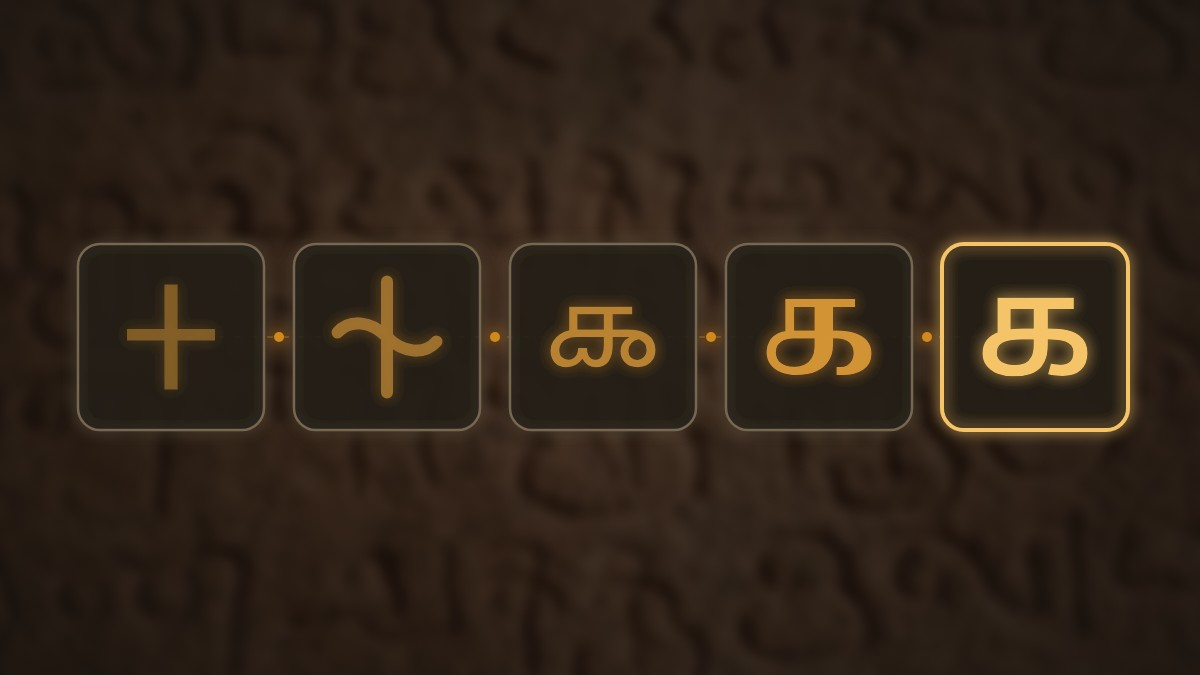
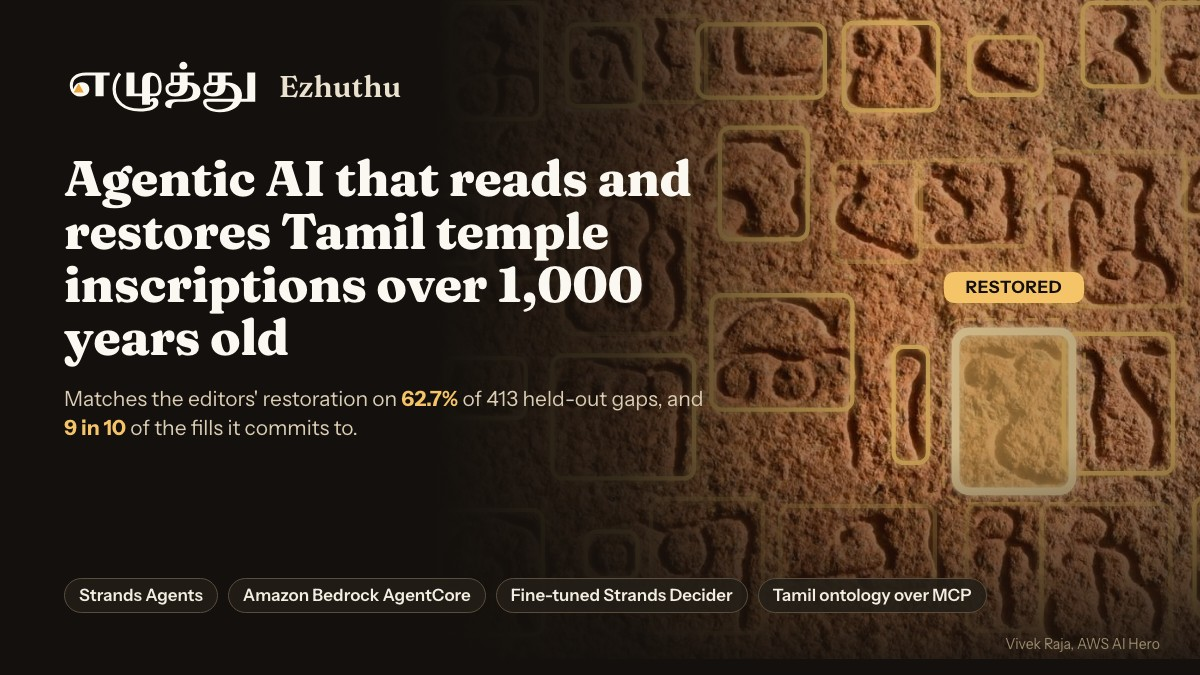
blog: project cover that names the project (title, result, stack) on the Thanjavur stone

diff --git a/blog/figures/html/project-00-cover.html b/blog/figures/html/project-00-cover.html
@@ -50,8 +50,19 @@ body { font-family: var(--sans); color: var(--ink); -webkit-font-smoothing: anti
 .ta { font-family: 'Noto Sans Tamil', var(--sans); }
 
 </style></head><body><div id="fig" class="dark" style="width:1200px;height:675px;"><div style="position:absolute;inset:0;background:#13100D"></div>
-<img src="file:///Users/vivekrajaps/tamil-script/ezhuthu-wt/blog-sweep/app/web/public/hero/thanjavur-1568.jpg" style="position:absolute;left:-40px;top:-40px;width:1280px;height:755px;object-fit:cover;filter:blur(7px) saturate(.9) brightness(.42)">
-<div style="position:absolute;inset:0;background:radial-gradient(75% 85% at 50% 50%,rgba(19,16,13,.15) 0%,rgba(19,16,13,.85) 100%)"></div>
-<svg width="1200" height="675" style="position:absolute;inset:0"><defs><filter id="g4"><feGaussianBlur stdDeviation="7" result="b"/><feMerge><feMergeNode in="b"/><feMergeNode in="SourceGraphic"/></feMerge></filter></defs>
-<line x1="171.0" y1="337.0" x2="1035.0" y2="337.0" stroke="#D2891C" stroke-opacity=".35" stroke-width="2" stroke-dasharray="6 10"/>
-<g filter="url(#g4)"><rect x="78" y="244" width="186" height="186" rx="22" fill="#231E18" fill-opacity=".72" stroke="#76674F" stroke-width="2.5"/><svg x="96" y="262" width="150" height="150" viewBox="0 0 100 100" opacity="0.42"><path d="M45.59 85V52.35H20.69V44.61H45.59V15H54.41V44.61H79.31V52.35H54.41V85H45.59Z" fill="#EAA43A"/></svg><rect x="294" y="244" width="186" height="186" rx="22" fill="#231E18" fill-opacity=".72" stroke="#76674F" stroke-width="2.5"/><svg x="312" y="262" width="150" height="150" viewBox="0 0 100 100" opacity="0.56"><path d="M50 13V87M17 47C25 38 39 39 50 50C61 61 75 62 83 53" fill="none" stroke="#EAA43A" stroke-width="8" stroke-linecap="round" stroke-linejoin="round"/></svg><rect x="510" y="244" width="186" height="186" rx="22" fill="#231E18" fill-opacity=".72" stroke="#76674F" stroke-width="2.5"/><svg x="528" y="262" width="150" height="150" viewBox="0 0 100 100" opacity="0.71"><path d="M85 58.36Q85 62.54 83.22 65.15Q81.45 67.76 78.7 68.95Q75.95 70.13 72.95 70.13Q67.66 70.13 64.63 67.03Q61.6 63.93 61.6 59.47Q61.6 56.76 63.06 54.14Q64.52 51.53 67.59 50.14Q66.75 50.07 65.78 50.07H56.51V55.57Q56.51 62.47 53.73 66.3Q50.94 70.13 45.37 70.13Q39.1 70.13 36.24 64.49Q34.78 66.93 32.03 68.53Q29.28 70.13 25.73 70.13Q20.43 70.13 17.72 66.96Q15 63.79 15 59.26Q15 55.64 16.71 52.82Q18.41 50 21.23 48.12Q24.05 46.24 27.47 45.54V29.87H69.47V34.89H56.51V45.05H66.61Q72.95 45.05 77.02 46.87Q81.1 48.68 83.05 51.67Q85 54.67 85 58.36ZM32.97 34.89V45.05H50.52V34.89H32.97ZM20.92 58.78Q20.92 61.98 22.73 63.55Q24.54 65.11 26.91 65.11Q29.07 65.11 30.5 64.03Q31.93 62.96 32.66 61.25Q33.39 59.54 33.39 57.8V57.38H39.38V57.8Q39.38 59.54 39.9 61.21Q40.42 62.89 41.64 64Q42.86 65.11 44.88 65.11Q47.95 65.11 49.23 62.43Q50.52 59.75 50.52 55.43V50.07H32.69Q28.51 50.07 25.9 51.29Q23.29 52.51 22.1 54.46Q20.92 56.41 20.92 58.78ZM66.96 59.26Q66.96 61.98 68.67 63.62Q70.37 65.25 72.74 65.25Q75.04 65.25 77.02 63.51Q79.01 61.77 79.01 58.57Q79.01 53.62 73.93 51.46Q70.51 52.16 68.74 54.32Q66.96 56.48 66.96 59.26Z" fill="#EAA43A"/></svg><rect x="726" y="244" width="186" height="186" rx="22" fill="#231E18" fill-opacity=".72" stroke="#76674F" stroke-width="2.5"/><svg x="744" y="262" width="150" height="150" viewBox="0 0 100 100" opacity="0.85"><path d="M34.89 75.34Q28.97 75.34 24.48 73.46Q19.99 71.57 17.5 68.12Q15 64.66 15 59.96Q15 55.85 16.99 52.62Q18.97 49.39 22.76 47.55Q26.55 45.69 31.85 45.69H47.01V29.92H33.41V48.53H27.54V24.66H74.07V29.92H59.34V45.69H61.99Q69.17 45.69 74.31 47.46Q79.44 49.23 82.22 52.66Q85 56.1 85 61.18Q85 64.95 83.44 67.65Q81.86 70.35 79.24 72.03Q76.61 73.69 73.37 74.48Q70.12 75.26 66.67 75.26H61.69V70.06H64.16Q66.73 70.06 68.75 68.92Q70.77 67.79 71.91 65.71Q73.05 63.63 73.05 60.91Q73.05 56.04 70.05 53.49Q67.05 50.94 61.98 50.94H59.34V55.48Q59.34 61.33 56.57 65.82Q53.8 70.33 48.39 72.83Q42.97 75.34 34.89 75.34ZM33.61 69.9Q37.47 69.9 40.48 68.36Q43.49 66.81 45.24 63.8Q47.01 60.79 47.01 56.42V50.94H32.85Q28.99 50.94 26.4 52.12Q23.8 53.3 22.52 55.37Q21.24 57.44 21.24 60.09Q21.24 64.53 24.42 67.22Q27.61 69.9 33.61 69.9Z" fill="#EAA43A"/></svg><rect x="942" y="244" width="186" height="186" rx="22" fill="#231E18" fill-opacity=".72" stroke="#F5C468" stroke-width="4"/><svg x="960" y="262" width="150" height="150" viewBox="0 0 100 100" opacity="1.00"><path d="M35.69 76.23Q29.74 76.23 25.07 74.44Q20.39 72.64 17.7 69.16Q15 65.67 15 60.75Q15 55.73 17.74 52.06Q20.48 48.38 26.46 46.35Q32.42 44.33 42.19 44.33H59.68Q64.8 44.33 68.42 44.79Q72.04 45.26 74.71 46.25Q77.38 47.25 79.59 48.94Q82.09 50.81 83.55 53.87Q85 56.92 85 60.85Q85 68 80.63 71.99Q76.28 75.98 68.25 75.98Q66.1 75.98 63.52 75.71Q60.93 75.45 58.73 74.8L60.62 67.64Q61.98 68.01 63.63 68.24Q65.27 68.48 66.94 68.48Q71.15 68.48 73.34 66.51Q75.54 64.53 75.54 60.4Q75.54 57.48 74.19 55.72Q72.85 53.97 70.62 53.1Q68.38 52.23 65.58 51.93Q62.78 51.63 59.89 51.63H41.24Q36.97 51.63 33.8 52.12Q30.64 52.61 28.41 53.82Q26.47 54.94 25.53 56.55Q24.6 58.16 24.6 60.6Q24.6 64.62 27.93 66.64Q31.27 68.67 36.48 68.67Q40.41 68.67 43.21 67.45Q46.01 66.23 47.56 63.22Q49.1 60.21 49.1 54.78V31.37H33.79V47.25L25.01 48.73V23.77H75.87V31.37H58.58V53.89Q58.58 60.15 57.46 63.73Q56.35 67.3 54.31 69.75Q51.28 73.32 46.55 74.78Q41.84 76.23 35.69 76.23Z" fill="#F5C468"/></svg><circle cx="279" cy="337" r="5" fill="#D2891C"/><circle cx="495" cy="337" r="5" fill="#D2891C"/><circle cx="711" cy="337" r="5" fill="#D2891C"/><circle cx="927" cy="337" r="5" fill="#D2891C"/></g></svg></div></body></html>
+<div style="position:absolute;left:395px;top:-10px;width:1348px;height:669px">
+ <img src="file:///Users/vivekrajaps/tamil-script/ezhuthu-wt/blog-sweep/app/web/public/hero/thanjavur-1568.jpg" style="width:100%;height:100%;display:block;filter:saturate(1.05) contrast(1.05) brightness(.92)">
+ <svg viewBox="0 0 1568 778" style="position:absolute;inset:0;width:100%;height:100%"><defs><filter id="g4"><feGaussianBlur stdDeviation="5" result="b"/><feMerge><feMergeNode in="b"/><feMergeNode in="SourceGraphic"/></feMerge></filter></defs>
+ <g filter="url(#g4)"><rect x="65" y="15" width="105" height="135" rx="12" fill="none" stroke="#F5C468" stroke-opacity="0.9" stroke-width="5"/><rect x="200" y="40" width="85" height="95" rx="12" fill="none" stroke="#F5C468" stroke-opacity="0.9" stroke-width="5"/><rect x="280" y="30" width="82" height="100" rx="12" fill="none" stroke="#F5C468" stroke-opacity="0.4" stroke-width="5"/><rect x="352" y="40" width="148" height="85" rx="12" fill="none" stroke="#F5C468" stroke-opacity="0.9" stroke-width="5"/><rect x="522" y="38" width="110" height="102" rx="12" fill="none" stroke="#F5C468" stroke-opacity="0.9" stroke-width="5"/><rect x="668" y="55" width="84" height="67" rx="12" fill="none" stroke="#F5C468" stroke-opacity="0.9" stroke-width="5"/><rect x="800" y="15" width="82" height="97" rx="12" fill="none" stroke="#F5C468" stroke-opacity="0.9" stroke-width="5"/><rect x="888" y="15" width="82" height="109" rx="12" fill="none" stroke="#F5C468" stroke-opacity="0.9" stroke-width="5"/><rect x="1005" y="12" width="95" height="90" rx="12" fill="none" stroke="#F5C468" stroke-opacity="0.4" stroke-width="5"/><rect x="1110" y="12" width="112" height="66" rx="12" fill="none" stroke="#F5C468" stroke-opacity="0.4" stroke-width="5"/><rect x="1236" y="5" width="159" height="130" rx="12" fill="none" stroke="#F5C468" stroke-opacity="0.9" stroke-width="5"/><rect x="1405" y="4" width="125" height="96" rx="12" fill="none" stroke="#F5C468" stroke-opacity="0.9" stroke-width="5"/><rect x="12" y="240" width="90" height="78" rx="12" fill="none" stroke="#F5C468" stroke-opacity="0.9" stroke-width="5"/><rect x="112" y="220" width="100" height="115" rx="12" fill="none" stroke="#F5C468" stroke-opacity="0.4" stroke-width="5"/><rect x="195" y="222" width="147" height="178" rx="12" fill="none" stroke="#F5C468" stroke-opacity="0.4" stroke-width="5"/><rect x="378" y="160" width="102" height="130" rx="12" fill="none" stroke="#F5C468" stroke-opacity="0.9" stroke-width="5"/><rect x="510" y="200" width="102" height="116" rx="12" fill="none" stroke="#F5C468" stroke-opacity="0.4" stroke-width="5"/><rect x="606" y="198" width="134" height="100" rx="12" fill="none" stroke="#F5C468" stroke-opacity="0.4" stroke-width="5"/><rect x="762" y="188" width="158" height="180" rx="12" fill="none" stroke="#F5C468" stroke-opacity="0.4" stroke-width="5"/><rect x="918" y="195" width="122" height="67" rx="12" fill="none" stroke="#F5C468" stroke-opacity="0.4" stroke-width="5"/><rect x="1060" y="188" width="190" height="94" rx="12" fill="none" stroke="#F5C468" stroke-opacity="0.9" stroke-width="5"/><rect x="1265" y="185" width="75" height="65" rx="12" fill="none" stroke="#F5C468" stroke-opacity="0.9" stroke-width="5"/><rect x="1342" y="185" width="140" height="147" rx="12" fill="none" stroke="#F5C468" stroke-opacity="0.9" stroke-width="5"/><rect x="1505" y="190" width="55" height="146" rx="12" fill="none" stroke="#F5C468" stroke-opacity="0.9" stroke-width="5"/><rect x="58" y="428" width="94" height="70" rx="12" fill="none" stroke="#F5C468" stroke-opacity="0.9" stroke-width="5"/><rect x="183" y="425" width="165" height="143" rx="12" fill="none" stroke="#F5C468" stroke-opacity="0.9" stroke-width="5"/><rect x="368" y="355" width="164" height="133" rx="12" fill="none" stroke="#F5C468" stroke-opacity="0.9" stroke-width="5"/><rect x="580" y="415" width="40" height="135" rx="12" fill="none" stroke="#F5C468" stroke-opacity="0.9" stroke-width="5"/><rect x="778" y="400" width="127" height="162" rx="12" fill="none" stroke="#F5C468" stroke-opacity="0.9" stroke-width="5"/><rect x="965" y="400" width="95" height="165" rx="12" fill="none" stroke="#F5C468" stroke-opacity="0.4" stroke-width="5"/><rect x="1060" y="385" width="108" height="183" rx="12" fill="none" stroke="#F5C468" stroke-opacity="0.9" stroke-width="5"/><rect x="1175" y="380" width="150" height="150" rx="12" fill="none" stroke="#F5C468" stroke-opacity="0.4" stroke-width="5"/><rect x="1325" y="375" width="115" height="95" rx="12" fill="none" stroke="#F5C468" stroke-opacity="0.9" stroke-width="5"/><rect x="1442" y="360" width="78" height="152" rx="12" fill="none" stroke="#F5C468" stroke-opacity="0.4" stroke-width="5"/><rect x="52" y="605" width="120" height="145" rx="12" fill="none" stroke="#F5C468" stroke-opacity="0.9" stroke-width="5"/><rect x="222" y="630" width="60" height="54" rx="12" fill="none" stroke="#F5C468" stroke-opacity="0.9" stroke-width="5"/><rect x="298" y="592" width="130" height="156" rx="12" fill="none" stroke="#F5C468" stroke-opacity="0.4" stroke-width="5"/><rect x="448" y="600" width="180" height="100" rx="12" fill="none" stroke="#F5C468" stroke-opacity="0.4" stroke-width="5"/><rect x="665" y="598" width="87" height="147" rx="12" fill="none" stroke="#F5C468" stroke-opacity="0.4" stroke-width="5"/><rect x="752" y="598" width="150" height="167" rx="12" fill="none" stroke="#F5C468" stroke-opacity="0.4" stroke-width="5"/><rect x="930" y="590" width="132" height="138" rx="12" fill="none" stroke="#F5C468" stroke-opacity="0.9" stroke-width="5"/><rect x="1080" y="595" width="175" height="85" rx="12" fill="none" stroke="#F5C468" stroke-opacity="0.9" stroke-width="5"/><rect x="1262" y="560" width="34" height="144" rx="12" fill="none" stroke="#F5C468" stroke-opacity="0.9" stroke-width="5"/><rect x="1305" y="575" width="143" height="87" rx="12" fill="none" stroke="#F5C468" stroke-opacity="0.9" stroke-width="5"/><rect x="1448" y="565" width="90" height="131" rx="12" fill="none" stroke="#F5C468" stroke-opacity="0.4" stroke-width="5"/><rect x="652" y="397" width="136" height="186" rx="16" fill="#F5C468" fill-opacity=".34" stroke="#FBDFA6" stroke-width="9"/><rect x="638" y="383" width="164" height="214" rx="24" fill="none" stroke="#F5C468" stroke-opacity=".55" stroke-width="3" stroke-dasharray="14 10"/></g></svg></div>
+<div style="position:absolute;inset:0;background:linear-gradient(90deg,#13100D 0%,#13100D 36%,rgba(19,16,13,.82) 52%,rgba(19,16,13,.15) 74%,rgba(19,16,13,.35) 100%)"></div>
+<div style="position:absolute;inset:0;background:linear-gradient(0deg,rgba(19,16,13,.92) 0%,rgba(19,16,13,0) 34%)"></div>
+<div style="position:absolute;left:944px;top:272px;width:140px;text-align:center;padding:7px 0;border-radius:10px;background:#F5C468;
+ font:700 17px/1 var(--sans);color:#13100D;letter-spacing:.04em;box-shadow:0 0 24px rgba(245,196,104,.6)">RESTORED</div>
+<div style="position:absolute;left:64px;top:56px;width:640px">
+ <div style="display:flex;align-items:center;gap:18px"><img src="file:///Users/vivekrajaps/tamil-script/ezhuthu-wt/blog-sweep/design/brand/logo/wordmark-ta-reversed.svg" style="height:62px">
+  <span style="font:600 30px/1 var(--serif);color:#EAE1CE">Ezhuthu</span></div>
+ <div style="font:800 50px/1.06 var(--serif);color:#FBF8F1;margin-top:34px;letter-spacing:-.01em">Agentic AI that reads and restores Tamil temple inscriptions over 1,000 years old</div>
+ <div style="font:500 21px/1.4 var(--sans);color:#DACDB4;margin-top:20px">Matches the editors' restoration on <b style="color:#F5C468">62.7%</b> of 413 held-out gaps, and <b style="color:#F5C468">9 in 10</b> of the fills it commits to.</div>
+</div>
+<div style="position:absolute;left:64px;bottom:52px;width:1080px"><span style="display:inline-block;margin:0 10px 10px 0;padding:8px 14px;border-radius:999px;border:1.5px solid #5A4D3E;background:rgba(35,30,24,.85);font:600 17px/1 var(--sans);color:#F4EEE2">Strands Agents</span><span style="display:inline-block;margin:0 10px 10px 0;padding:8px 14px;border-radius:999px;border:1.5px solid #5A4D3E;background:rgba(35,30,24,.85);font:600 17px/1 var(--sans);color:#F4EEE2">Amazon Bedrock AgentCore</span><span style="display:inline-block;margin:0 10px 10px 0;padding:8px 14px;border-radius:999px;border:1.5px solid #5A4D3E;background:rgba(35,30,24,.85);font:600 17px/1 var(--sans);color:#F4EEE2">Fine-tuned Strands Decider</span><span style="display:inline-block;margin:0 10px 10px 0;padding:8px 14px;border-radius:999px;border:1.5px solid #5A4D3E;background:rgba(35,30,24,.85);font:600 17px/1 var(--sans);color:#F4EEE2">Tamil ontology over MCP</span></div>
+<div style="position:absolute;right:40px;bottom:24px;font:500 14px/1 var(--sans);color:#9A896C">Vivek Raja, AWS AI Hero</div></div></body></html>

diff --git a/blog/figures/gen.py b/blog/figures/gen.py
@@ -935,28 +935,46 @@ def covers() -> None:
 <circle cx="1080" cy="90" r="20" fill="#D2891C"/><circle cx="1080" cy="90" r="38" fill="none" stroke="#D2891C" stroke-width="3" opacity=".5"/></svg>"""
     page("p3-00-cover", c3, w=1200, h=675)
 
-    # Project cover: the letter ka at five stages (design/glyphs/hero-evolution.json), lamp-lit on the dark,
-    # blurred Thanjavur stone (photo: Richard Mortel, CC BY 2.0; credited in the article). No text.
-    evo = json.loads((ROOT / "design/glyphs/hero-evolution.json").read_text())
-    st = evo["stages"]  # brahmi, vatteluttu, pallava, chola, modern: oldest to newest
-    gl, step, size, y = 96, 216, 150, 262
-    marks = ""
-    for i, s in enumerate(st):
-        x = gl + i * step
-        op = .42 + .145 * i
-        col = C["lamp300"] if i == len(st) - 1 else C["lamp400"]
-        shape = (f'<path d="{s["d"]}" fill="none" stroke="{col}" stroke-width="{evo["stroke"]}" stroke-linecap="round" stroke-linejoin="round"/>'
-                 if s["kind"] == "stroke" else f'<path d="{s["d"]}" fill="{col}"/>')
-        marks += (f'<rect x="{x - 18}" y="{y - 18}" width="{size + 36}" height="{size + 36}" rx="22" fill="{C["g850"]}" fill-opacity=".72" '
-                  f'stroke="{C["lamp300"] if i == len(st) - 1 else "#76674F"}" stroke-width="{4 if i == len(st) - 1 else 2.5}"/>'
-                  f'<svg x="{x}" y="{y}" width="{size}" height="{size}" viewBox="{evo["viewBox"]}" opacity="{op:.2f}">{shape}</svg>')
-    dots = "".join(f'<circle cx="{gl + i * step + size + 18 + (step - size - 36) / 2:.0f}" cy="{y + size / 2:.0f}" r="5" fill="{C["lamp500"]}"/>' for i in range(len(st) - 1))
-    c4 = f"""<div style="position:absolute;inset:0;background:#13100D"></div>
-<img src="{photo}" style="position:absolute;left:-40px;top:-40px;width:1280px;height:755px;object-fit:cover;filter:blur(7px) saturate(.9) brightness(.42)">
-<div style="position:absolute;inset:0;background:radial-gradient(75% 85% at 50% 50%,rgba(19,16,13,.15) 0%,rgba(19,16,13,.85) 100%)"></div>
-<svg width="1200" height="675" style="position:absolute;inset:0"><defs><filter id="g4"><feGaussianBlur stdDeviation="7" result="b"/><feMerge><feMergeNode in="b"/><feMergeNode in="SourceGraphic"/></feMerge></filter></defs>
-<line x1="{gl + size / 2}" y1="{y + size / 2}" x2="{gl + 4 * step + size / 2}" y2="{y + size / 2}" stroke="{C["lamp500"]}" stroke-opacity=".35" stroke-width="2" stroke-dasharray="6 10"/>
-<g filter="url(#g4)">{marks}{dots}</g></svg>"""
+    # Project cover: highlights the project. The real Thanjavur stone (photo: Richard Mortel, CC BY 2.0; credited in
+    # the article) with lamp-lit letter boxes and one restored gap, the Tamil and English wordmarks, the headline,
+    # the held-out result (A1, A7) and what it is built with.
+    sc, ox, oy = 0.86, 395, -10
+    pw, ph = W * sc, Hh * sc
+    pr = []
+    rnd2 = random.Random(11)
+    hot = (2, 4)  # row 2, box 4: the restored gap, on the lit part of the stone
+    for ri, row in enumerate(boxes["rows"]):
+        for bi, (x1, y1, x2, y2) in enumerate(row):
+            if (ri, bi) == hot:
+                continue
+            op = .9 if rnd2.random() < .6 else .4
+            pr.append(f'<rect x="{x1}" y="{y1}" width="{x2-x1}" height="{y2-y1}" rx="12" fill="none" stroke="{C["lamp300"]}" stroke-opacity="{op}" stroke-width="5"/>')
+    hx1, hy1, hx2, hy2 = boxes["rows"][hot[0]][hot[1]]
+    pr.append(f'<rect x="{hx1-8}" y="{hy1-8}" width="{hx2-hx1+16}" height="{hy2-hy1+16}" rx="16" fill="{C["lamp300"]}" fill-opacity=".34" '
+              f'stroke="{C["lamp200"]}" stroke-width="9"/>'
+              f'<rect x="{hx1-22}" y="{hy1-22}" width="{hx2-hx1+44}" height="{hy2-hy1+44}" rx="24" fill="none" '
+              f'stroke="{C["lamp300"]}" stroke-opacity=".55" stroke-width="3" stroke-dasharray="14 10"/>')
+    tagx, tagy = ox + (hx1 + hx2) / 2 * sc, oy + hy1 * sc - 66
+    chips = "".join(f'<span style="display:inline-block;margin:0 10px 10px 0;padding:8px 14px;border-radius:999px;border:1.5px solid #5A4D3E;'
+                    f'background:rgba(35,30,24,.85);font:600 17px/1 var(--sans);color:{C["stone100"]}">{t}</span>'
+                    for t in ("Strands Agents", "Amazon Bedrock AgentCore", "Fine-tuned Strands Decider", "Tamil ontology over MCP"))
+    c4 = f"""<div style="position:absolute;inset:0;background:{C["g950"]}"></div>
+<div style="position:absolute;left:{ox}px;top:{oy}px;width:{pw:.0f}px;height:{ph:.0f}px">
+ <img src="{photo}" style="width:100%;height:100%;display:block;filter:saturate(1.05) contrast(1.05) brightness(.92)">
+ <svg viewBox="0 0 {W} {Hh}" style="position:absolute;inset:0;width:100%;height:100%"><defs><filter id="g4"><feGaussianBlur stdDeviation="5" result="b"/><feMerge><feMergeNode in="b"/><feMergeNode in="SourceGraphic"/></feMerge></filter></defs>
+ <g filter="url(#g4)">{''.join(pr)}</g></svg></div>
+<div style="position:absolute;inset:0;background:linear-gradient(90deg,{C["g950"]} 0%,{C["g950"]} 36%,rgba(19,16,13,.82) 52%,rgba(19,16,13,.15) 74%,rgba(19,16,13,.35) 100%)"></div>
+<div style="position:absolute;inset:0;background:linear-gradient(0deg,rgba(19,16,13,.92) 0%,rgba(19,16,13,0) 34%)"></div>
+<div style="position:absolute;left:{tagx-70:.0f}px;top:{tagy:.0f}px;width:140px;text-align:center;padding:7px 0;border-radius:10px;background:{C["lamp300"]};
+ font:700 17px/1 var(--sans);color:{C["g950"]};letter-spacing:.04em;box-shadow:0 0 24px rgba(245,196,104,.6)">RESTORED</div>
+<div style="position:absolute;left:64px;top:56px;width:640px">
+ <div style="display:flex;align-items:center;gap:18px"><img src="{LOGO}/wordmark-ta-reversed.svg" style="height:62px">
+  <span style="font:600 30px/1 var(--serif);color:{C["stone200"]}">Ezhuthu</span></div>
+ <div style="font:800 50px/1.06 var(--serif);color:{C["stone50"]};margin-top:34px;letter-spacing:-.01em">Agentic AI that reads and restores Tamil temple inscriptions over 1,000 years old</div>
+ <div style="font:500 21px/1.4 var(--sans);color:{C["stone300"]};margin-top:20px">Matches the editors' restoration on <b style="color:{C["lamp300"]}">62.7%</b> of 413 held-out gaps, and <b style="color:{C["lamp300"]}">9 in 10</b> of the fills it commits to.</div>
+</div>
+<div style="position:absolute;left:64px;bottom:52px;width:1080px">{chips}</div>
+<div style="position:absolute;right:40px;bottom:24px;font:500 14px/1 var(--sans);color:{C["stone500"]}">Vivek Raja, AWS AI Hero</div>"""
     page("project-00-cover", c4, w=1200, h=675, theme="dark")
 
 

diff --git a/blog/ezhuthu-project.md b/blog/ezhuthu-project.md
@@ -3,7 +3,7 @@ title: "Ezhuthu: An Apprentice for Tamil Temple Inscriptions, Built with Strands
 description: "Identify letters, restore worn-away text and learn to read Tamil inscriptions over 1,000 years old. Built with Strands Agents on Amazon Bedrock AgentCore: a Reader names each carved letter, a Restorer fills gaps from parallel inscriptions with calibrated confidence, the agents look up a custom Tamil epigraphy ontology, a fine-tuned Strands decision model is public on Hugging Face, and a Tutor teaches in Tamil. Matches the editors' restoration on 62.7% of 413 held-out gaps; 9 in 10 when it commits."
 tags: ["strands-agents", "amazon-bedrock-agentcore", "generative-ai", "education", "social-good"]
 cover: "img/project-00-cover.jpg"
-cover_alt: "The Tamil letter ka at five stages, from Tamil-Brahmi through Vatteluttu, Pallava Grantha and Chola Tamil to modern Tamil, lamp-lit in a row of tiles over a dark, blurred temple inscription"
+cover_alt: "Ezhuthu cover: the Tamil and English wordmarks and the line Agentic AI that reads and restores Tamil temple inscriptions over 1,000 years old, beside the inscribed Thanjavur temple wall with lamp-lit outlines around the carved letters and one gap highlighted as restored; it matches the editors' restoration on 62.7% of 413 held-out gaps and 9 in 10 of its committed fills; built with Strands Agents, Amazon Bedrock AgentCore, a fine-tuned Strands Decider and a Tamil ontology over MCP"
 repo: "https://github.com/Vivek0712/ezhuthu"
 demo: "https://d3jz2k92ne5puo.cloudfront.net"
 notebook: "https://github.com/Vivek0712/ezhuthu/blob/main/notebooks/ezhuthu_end_to_end.ipynb"
@@ -116,7 +116,7 @@ Thanks to the DHARMA project and the editors of every edition used here, whose r
 
 Inscription texts: the DHARMA project (ERC grant 809994) and the named editors of each edition, CC BY-SA 4.0. The derived benchmark is shared under CC BY-SA 4.0.
 
-Cover background photograph: "Brihadishwara Temple, Dedicated to Shiva, built by Rajaraja I, completed in 1010, Thanjavur (38)" by Richard Mortel, CC BY 2.0 (https://creativecommons.org/licenses/by/2.0/), via Wikimedia Commons (https://commons.wikimedia.org/wiki/File:1010_CE_Brihadishwara_Shiva_Temple,_inscription,_built_by_Rajaraja_I,_Thanjavur_Tamil_Nadu_India.jpg); cropped, blurred and darkened, with the letter ka at five stages drawn over it.
+Cover background photograph: "Brihadishwara Temple, Dedicated to Shiva, built by Rajaraja I, completed in 1010, Thanjavur (38)" by Richard Mortel, CC BY 2.0 (https://creativecommons.org/licenses/by/2.0/), via Wikimedia Commons (https://commons.wikimedia.org/wiki/File:1010_CE_Brihadishwara_Shiva_Temple,_inscription,_built_by_Rajaraja_I,_Thanjavur_Tamil_Nadu_India.jpg); cropped and darkened at the left, with letter outlines and the project title drawn over it.
 
 Fonts: Noto Serif Tamil, Noto Sans Tamil, Noto Sans Brahmi, Noto Sans Grantha, Fraunces and Instrument Sans, SIL OFL 1.1.
 

diff --git a/blog/publish/project-body.md b/blog/publish/project-body.md
@@ -1,5 +1,5 @@
 < COVER IMAGE: upload blog/img/project-00-cover.jpg in the cover field (1200x675, no text) >
-Alt text: The Tamil letter ka at five stages, from Tamil-Brahmi through Vatteluttu, Pallava Grantha and Chola Tamil to modern Tamil, lamp-lit in a row of tiles over a dark, blurred temple inscription
+Alt text: Ezhuthu cover: the Tamil and English wordmarks and the line Agentic AI that reads and restores Tamil temple inscriptions over 1,000 years old, beside the inscribed Thanjavur temple wall with lamp-lit outlines around the carved letters and one gap highlighted as restored; it matches the editors' restoration on 62.7% of 413 held-out gaps and 9 in 10 of its committed fills; built with Strands Agents, Amazon Bedrock AgentCore, a fine-tuned Strands Decider and a Tamil ontology over MCP
 
 By Vivek Raja, AWS AI Hero
 
@@ -114,7 +114,7 @@ Thanks to the DHARMA project and the editors of every edition used here, whose r
 
 Inscription texts: the DHARMA project (ERC grant 809994) and the named editors of each edition, CC BY-SA 4.0. The derived benchmark is shared under CC BY-SA 4.0.
 
-Cover background photograph: "Brihadishwara Temple, Dedicated to Shiva, built by Rajaraja I, completed in 1010, Thanjavur (38)" by Richard Mortel, CC BY 2.0 (https://creativecommons.org/licenses/by/2.0/), via Wikimedia Commons (https://commons.wikimedia.org/wiki/File:1010_CE_Brihadishwara_Shiva_Temple,_inscription,_built_by_Rajaraja_I,_Thanjavur_Tamil_Nadu_India.jpg); cropped, blurred and darkened, with the letter ka at five stages drawn over it.
+Cover background photograph: "Brihadishwara Temple, Dedicated to Shiva, built by Rajaraja I, completed in 1010, Thanjavur (38)" by Richard Mortel, CC BY 2.0 (https://creativecommons.org/licenses/by/2.0/), via Wikimedia Commons (https://commons.wikimedia.org/wiki/File:1010_CE_Brihadishwara_Shiva_Temple,_inscription,_built_by_Rajaraja_I,_Thanjavur_Tamil_Nadu_India.jpg); cropped and darkened at the left, with letter outlines and the project title drawn over it.
 
 Fonts: Noto Serif Tamil, Noto Sans Tamil, Noto Sans Brahmi, Noto Sans Grantha, Fraunces and Instrument Sans, SIL OFL 1.1.
 

diff --git a/blog/publish/project-fields.md b/blog/publish/project-fields.md
@@ -10,8 +10,8 @@ Tags: ["strands-agents", "amazon-bedrock-agentcore", "generative-ai", "education
 GitHub or GitLab Repository: https://github.com/Vivek0712/ezhuthu
 Endpoint or live demo: https://d3jz2k92ne5puo.cloudfront.net
 Jupyter or SageMaker notebook: https://github.com/Vivek0712/ezhuthu/blob/main/notebooks/ezhuthu_end_to_end.ipynb
-Cover image: blog/img/project-00-cover.jpg [1200x675 JPEG, 57 KB] (1200x675 png/jpg/webp, <= 2 MB, no text)
-Cover alt text: The Tamil letter ka at five stages, from Tamil-Brahmi through Vatteluttu, Pallava Grantha and Chola Tamil to modern Tamil, lamp-lit in a row of tiles over a dark, blurred temple inscription
+Cover image: blog/img/project-00-cover.jpg [1200x675 JPEG, 183 KB] (1200x675 png/jpg/webp, <= 2 MB, no text)
+Cover alt text: Ezhuthu cover: the Tamil and English wordmarks and the line Agentic AI that reads and restores Tamil temple inscriptions over 1,000 years old, beside the inscribed Thanjavur temple wall with lamp-lit outlines around the carved letters and one gap highlighted as restored; it matches the editors' restoration on 62.7% of 413 held-out gaps and 9 in 10 of its committed fills; built with Strands Agents, Amazon Bedrock AgentCore, a fine-tuned Strands Decider and a Tamil ontology over MCP
 
 Figures, in body order. Each < FIGURE n of N > marker in the body is replaced by the upload; the
 Alt text line under it goes into the image's alt field; the italic line after it is the caption.
